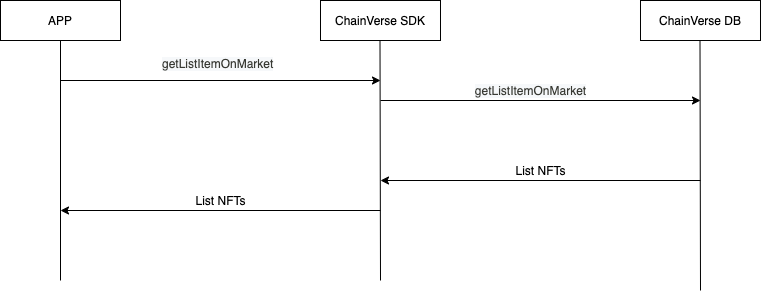
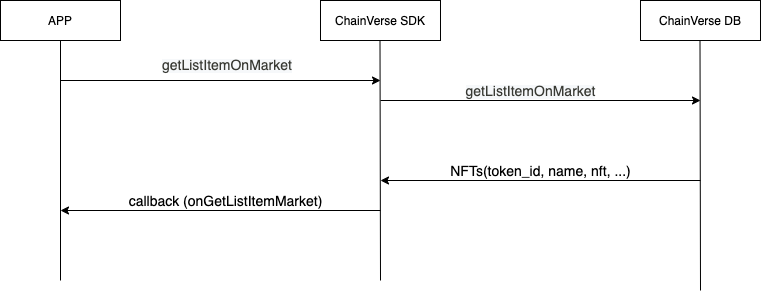
update: sequence diagram

diff --git a/docs/sdk/android/items.md b/docs/sdk/android/items.md
@@ -18,6 +18,8 @@ public void onGetItems(ArrayList<ChainverseItem> items) {
 }
 ```
 
+![Docusaurus logo](/img/get-items.png)
+
 ## 2. Hàm getListItemOnMarket
 Sử dụng hàm này để lấy danh sách ITEM của game đang bán trên chợ. Thông tin sẽ được trả về qua callback [onGetListItemMarket](/docs/sdk/android/over-view#7-callback-ongetlistitemmarket).
 
@@ -59,6 +61,8 @@ public void onGetMyAssets(ArrayList<NFT> items) {
 }
 ```
 
+![Docusaurus logo](/img/get-my-assets.png)
+
 ## 4. Hàm getDetailNFT
 Sử dụng hàm này để lấy thông tin chi tiết của 1 item (Thông tin này là Off chain). Thông tin sẽ được trả về qua callback [onGetDetailItem](/docs/sdk/android/over-view#9-callback-ongetdetailitem).
 
@@ -81,6 +85,8 @@ public void onGetDetailItem(NFT items) {
 }
 ```
 
+![Docusaurus logo](/img/get-detail.png)
+
 ## 5. Hàm getNFT
 Sử dụng hàm này để lấy thông tin item trên blockchain.
 
@@ -95,6 +101,8 @@ param: [nft](/docs/sdk/Reference/NFT), [tokenId](/docs/sdk/Reference/NFT), [NFT]
  */
 ChainverseSDK.getInstance().getNFT(String nft, BigInteger tokenId);
 ```
+
+![Docusaurus logo](/img/get-nft.png)
 
 ## 6. Hàm transferItem
 Sử dụng hàm này để chuyển item sang địa chỉ ví khác. Hàm này trả về transaction hash. Thông tin transaction hash cũng sẽ được trả về qua callback [onTransact](/docs/sdk/android/over-view#10-callback-ontransact)

diff --git a/docs/sdk/android/wallet.md b/docs/sdk/android/wallet.md
@@ -104,6 +104,8 @@ Sử dụng hàm này để lấy số dư native coin của ví.
 ChainverseSDK.getInstance().isValidAddress();
 ```
 
+![Docusaurus logo](/img/get-balance.png)
+
 ## 11. Hàm getBalanceToken
 Sử dụng hàm này để lấy số dư token của ví.
 ```
@@ -114,6 +116,8 @@ Sử dụng hàm này để lấy số dư token của ví.
  */
 ChainverseSDK.getInstance().getBalanceToken(String contractAddress);
 ```
+
+![Docusaurus logo](/img/get-balance-token.png)
 
 ## 12. Hàm getAddress
 Sử dụng hàm này để lấy địa chỉ ví.
@@ -156,6 +160,8 @@ public void onSignMessage(String signed) {
     // TODO
 }
 ```
+
+![Docusaurus logo](/img/sign-message.png)
 
 ## 15. Hàm hứng data được trả về từ ví ChainVerse
 Khi connect thành công với ví ChainVerse. ChainVerse sẽ mở lại app/game thông qua scheme (đã khai báo ở phần Intergrate SDK). Vì vậy cần khai báo các hàm này để ChainVerse SDK xử lý dữ liệu được trả về từ ví ChainVerse.
